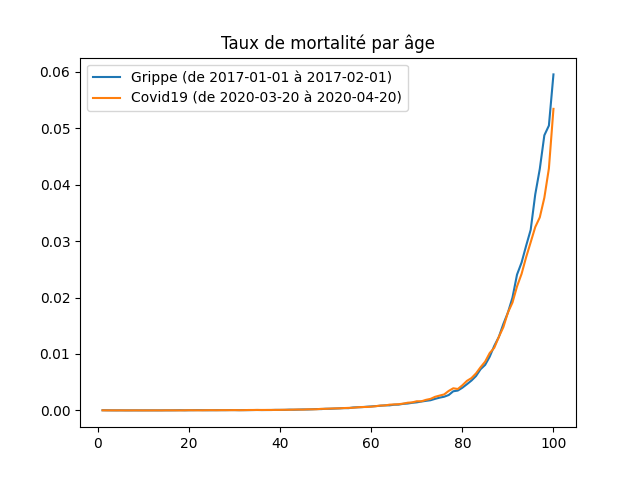
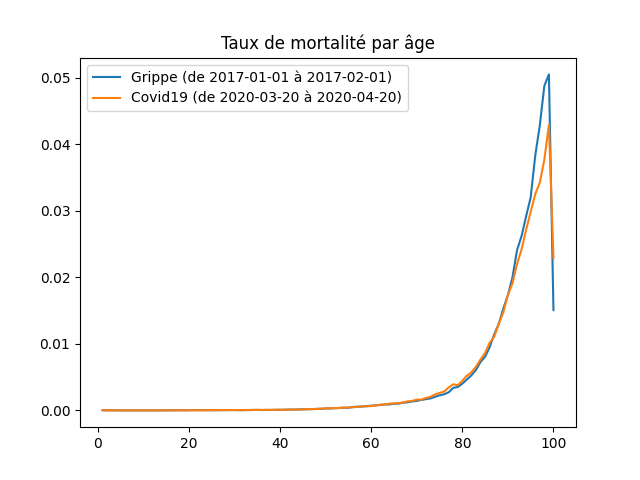
Add deces_par_age + add 'age' in table 'deces' + simplify & extract _select_* functions

diff --git a/run.py b/run.py
@@ -67,6 +67,7 @@ def all():
     _compute_taux_mortalite_par_age()
     _compute_deces_par_date()
     _compute_population_par_age()
+    _compute_deces_par_age()
 
 
 @main.command("init_db")
@@ -81,7 +82,7 @@ def _db_connect():
 def _init_db():
     with _db_connect() as conn:
         cur = conn.cursor()
-        cur.execute('''CREATE TABLE IF NOT EXISTS deces(sex text, date_naissance text, date_deces text)''')
+        cur.execute('''CREATE TABLE IF NOT EXISTS deces(sex text, date_naissance text, date_deces text, age integer)''')
         cur.execute('''DELETE FROM deces''')
         cur.execute('''CREATE TABLE IF NOT EXISTS ages(annee integer, age integer, nb integer)''')
         cur.execute('''DELETE FROM ages''')
@@ -135,10 +136,16 @@ def _parse_deces_file(conf):
         nb_inserted = 0
         for line in file.readlines():
             try:
+                date_naissance = _parse_date(line[81:89], def_month="06", def_day="15")
+                date_deces = _parse_date(line[154:162])
+                naissance_dt = _to_dt(date_naissance)
+                deces_dt = _to_dt(date_deces)
+                age = _dt_to_annees(deces_dt - naissance_dt)
                 parsed = {
                     "sex": _parse_sex(line[80]),
-                    "date_naissance": _parse_date(line[81:89], def_month="06", def_day="15"),
-                    "date_deces": _parse_date(line[154:162])
+                    "date_naissance": date_naissance,
+                    "date_deces": date_deces,
+                    "age": age
                 }
                 res.append(parsed)
                 nb_inserted += 1
@@ -153,8 +160,8 @@ def _parse_deces_file(conf):
 
 def _insert_deces_in_db(conn, rows):
     cur = conn.cursor()
-    cur.executemany('''INSERT INTO deces (sex, date_naissance, date_deces) VALUES (?, ?, ?)''',
-        [(row["sex"], row["date_naissance"], row["date_deces"]) for row in rows])
+    cur.executemany('''INSERT INTO deces (sex, date_naissance, date_deces, age) VALUES (?, ?, ?, ?)''',
+        [(row["sex"], row["date_naissance"], row["date_deces"], row["age"]) for row in rows])
 
 
 def _parse_pda_file(conf):
@@ -203,30 +210,14 @@ def _compute_taux_mortalite_par_age():
     print(f"compute taux_mortalite_par_age")
     _assert_all_date_ranges_have_same_duration()
     with _db_connect() as conn:
-        cur = conn.cursor()
         # build pyramides_des_ages
-        res = cur.execute('''SELECT annee, age, nb FROM ages''')
-        pyramides_des_ages = {}
-        for annee, age, nb in res:
-            pyramides_des_ages.setdefault(annee, {})[age] = nb
+        pop_par_age_2017 = _select_pop_par_age(conn, 2017)
+        pop_par_age_2020 = _select_pop_par_age(conn, 2020)
         # build nb_deces_par_age
-        def _compute_deces_par_age(date_range):
-            res = defaultdict(int)
-            cur = conn.cursor()
-            rows = cur.execute('''SELECT sex, date_naissance, date_deces FROM deces WHERE date_deces BETWEEN ? AND ?''',
-                [*date_range])
-            for sex, date_naissance, date_deces in rows:
-                naissance_dt = _to_dt(date_naissance)
-                deces_dt = _to_dt(date_deces)
-                deces_age = _dt_to_annees(deces_dt - naissance_dt)
-                # dans les pyramide-des-ages, tous les ages >= 100 sont comptés ensemble
-                deces_age = min(deces_age, 100)
-                res[deces_age] += 1
-            return res
         date_range_2017 = DATE_RANGES["grippe 2016/2017"]
         date_range_2020 = DATE_RANGES["covid 2019/2020"]
-        nb_deces_par_age_2017 = _compute_deces_par_age(date_range_2017)
-        nb_deces_par_age_2020 = _compute_deces_par_age(date_range_2020)
+        nb_deces_par_age_2017 = _select_deces_par_age(conn, date_range_2017)
+        nb_deces_par_age_2020 = _select_deces_par_age(conn, date_range_2020)
         # build taux_mortalite_par_age
         def _compute_taux_mortalite_par_age(deces, pda):
             res = {}
@@ -234,8 +225,8 @@ def _compute_taux_mortalite_par_age():
                 tot = pda.get(age)
                 res[age] = nb / tot if tot else 0
             return res
-        taux_mortalite_par_age_2017 = _compute_taux_mortalite_par_age(nb_deces_par_age_2017, pyramides_des_ages[2017])
-        taux_mortalite_par_age_2020 = _compute_taux_mortalite_par_age(nb_deces_par_age_2020, pyramides_des_ages[2020])
+        taux_mortalite_par_age_2017 = _compute_taux_mortalite_par_age(nb_deces_par_age_2017, pop_par_age_2017)
+        taux_mortalite_par_age_2020 = _compute_taux_mortalite_par_age(nb_deces_par_age_2020, pop_par_age_2020)
         # plot taux de mortalite
         age_range = list(range(1, 101))
         plt.clf()
@@ -244,6 +235,22 @@ def _compute_taux_mortalite_par_age():
         plt.title("Taux de mortalité par âge")
         plt.legend()
         plt.savefig(os.path.join(HERE, 'results/taux_mortalite_par_age.png'))
+
+
+def _select_pop_par_age(conn, annee):
+    rows = conn.cursor().execute(
+        '''SELECT age, nb FROM ages WHERE annee = ?''',
+        [annee]
+    )
+    return {age:nb for age, nb in rows}
+
+
+def _select_deces_par_age(conn, date_range):
+    rows = conn.cursor().execute(
+        '''SELECT age, count(*) FROM deces WHERE date_deces BETWEEN ? AND ? GROUP BY age''',
+        [*date_range]
+    )
+    return {age: nb for age, nb in rows}
 
 
 @main.command("compute_deces_par_date")
@@ -255,19 +262,10 @@ def _compute_deces_par_date():
     print(f"compute deces_par_date")
     _assert_all_date_ranges_have_same_duration()
     with _db_connect() as conn:
-        def _compute_deces_par_date(date_range):
-            res = defaultdict(int)
-            cur = conn.cursor()
-            rows = cur.execute('''SELECT sex, date_naissance, date_deces FROM deces WHERE date_deces BETWEEN ? AND ?''',
-                [*date_range])
-            for sex, date_naissance, date_deces in rows:
-                deces_dt = _to_dt(date_deces)
-                res[deces_dt] += 1
-            return res
         date_range_2017 = DATE_RANGES["grippe 2016/2017"]
         date_range_2020 = DATE_RANGES["covid 2019/2020"]
-        deces_par_date_2017 = _compute_deces_par_date(date_range_2017)
-        deces_par_date_2020 = _compute_deces_par_date(date_range_2020)
+        deces_par_date_2017 = _select_deces_par_date(conn, date_range_2017)
+        deces_par_date_2020 = _select_deces_par_date(conn, date_range_2020)
         dates_2017 = _date_range_to_dates(date_range_2017)
         dates_2020 = _date_range_to_dates(date_range_2020)
         plt.clf()
@@ -276,6 +274,14 @@ def _compute_deces_par_date():
         plt.title("Décès par date")
         plt.legend()
         plt.savefig(os.path.join(HERE, 'results/deces_par_date.png'))
+
+
+def _select_deces_par_date(conn, date_range):
+    rows = conn.cursor().execute(
+        '''SELECT date_deces, count(*) FROM deces WHERE date_deces BETWEEN ? AND ? GROUP BY date_deces''',
+        [*date_range]
+    )
+    return {_to_dt(date_deces): nb for date_deces, nb in rows}
 
 
 @main.command("compute_population_par_age")
@@ -287,14 +293,8 @@ def _compute_population_par_age():
     print(f"compute population_par_age")
     _assert_all_date_ranges_have_same_duration()
     with _db_connect() as conn:
-        def _compute_pop_par_age(annee):
-            res = defaultdict(int)
-            cur = conn.cursor()
-            rows = cur.execute('''SELECT age, nb FROM ages WHERE annee = ?''',
-                [annee])
-            return {age:nb for age, nb in rows}
-        pop_par_age_2017 = _compute_pop_par_age(2017)
-        pop_par_age_2020 = _compute_pop_par_age(2020)
+        pop_par_age_2017 = _select_pop_par_age(conn, 2017)
+        pop_par_age_2020 = _select_pop_par_age(conn, 2020)
         plt.clf()
         age_range = list(range(1, 101))
         plt.plot(age_range, [pop_par_age_2017.get(i, 0) for i in age_range], label=f"2017")
@@ -302,6 +302,29 @@ def _compute_population_par_age():
         plt.title("Population par âge")
         plt.legend()
         plt.savefig(os.path.join(HERE, 'results/population_par_age.png'))
+
+
+@main.command("compute_deces_par_age")
+def compute_deces_par_age():
+    _compute_deces_par_age()
+
+
+def _compute_deces_par_age():
+    print("compute deces_par_age")
+    _assert_all_date_ranges_have_same_duration()
+    with _db_connect() as conn:
+        date_range_2017 = DATE_RANGES["grippe 2016/2017"]
+        date_range_2020 = DATE_RANGES["covid 2019/2020"]
+        nb_deces_par_age_2017 = _select_deces_par_age(conn, date_range_2017)
+        nb_deces_par_age_2020 = _select_deces_par_age(conn, date_range_2020)
+        # plot taux de mortalite
+        age_range = list(range(1, 101))
+        plt.clf()
+        plt.plot(age_range, [nb_deces_par_age_2017.get(i, 0) for i in age_range], label=f"Grippe (de {date_range_2017[0]} à {date_range_2017[1]})")
+        plt.plot(age_range, [nb_deces_par_age_2020.get(i, 0) for i in age_range], label=f"Covid19 (de {date_range_2020[0]} à {date_range_2020[1]})")
+        plt.title("Décès par âge")
+        plt.legend()
+        plt.savefig(os.path.join(HERE, 'results/deces_par_age.png'))
 
 
 # parsing
